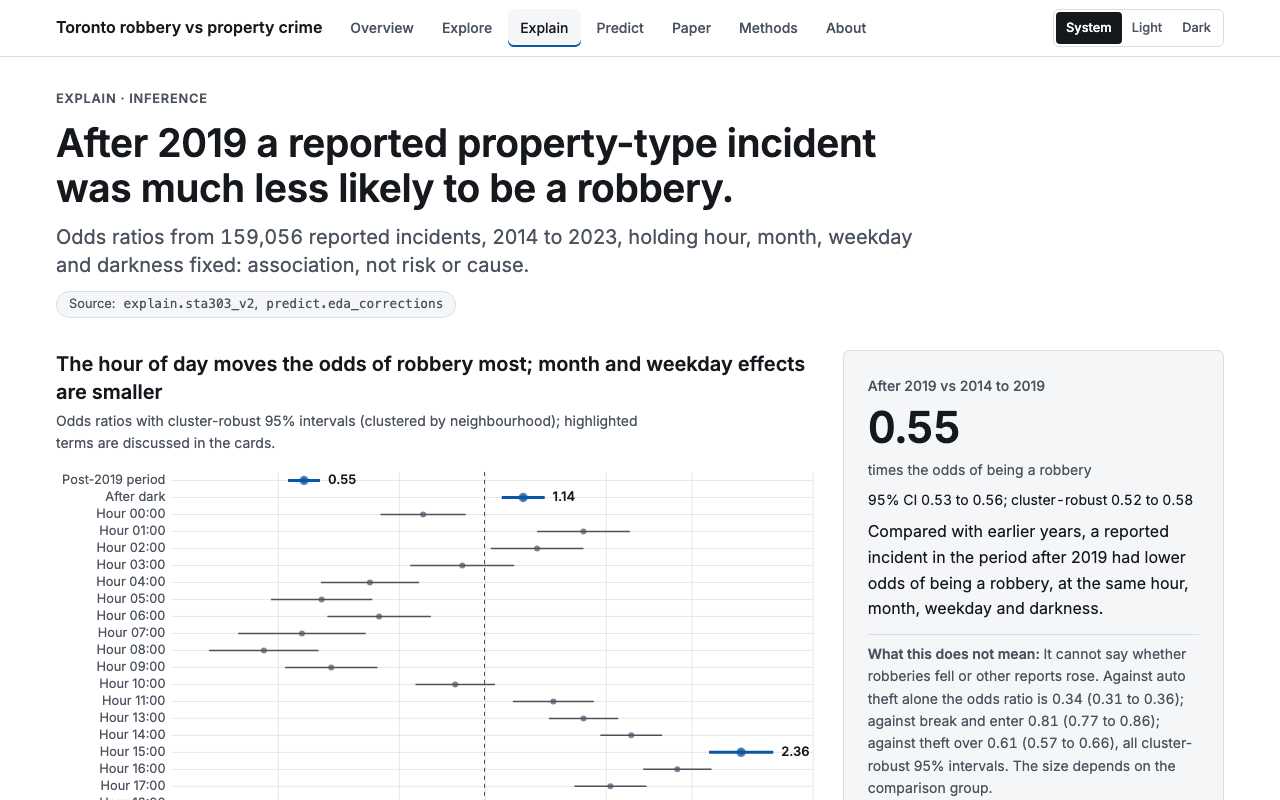
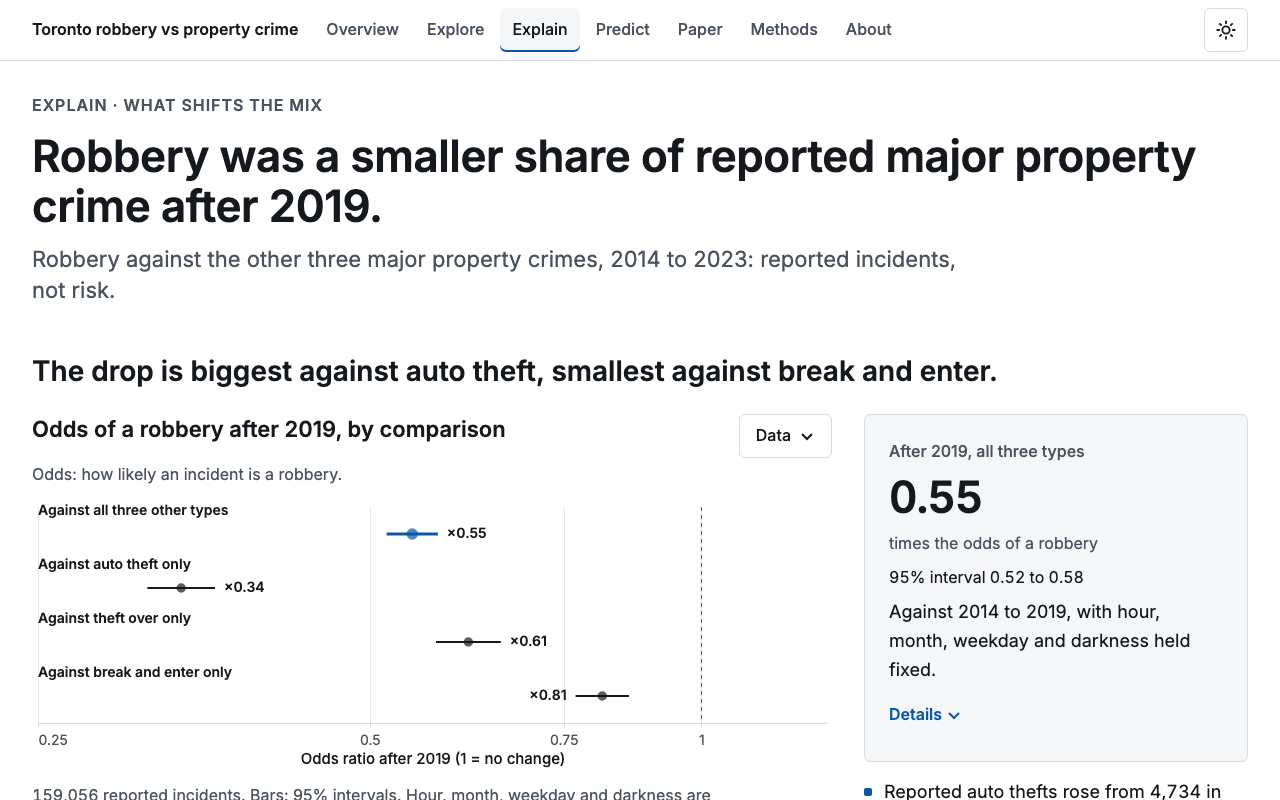
P10: charts embed near the viewport (Lighthouse mobile Explain 67 to 92), README screenshots and 3D note, DESIGN.md and PROGRESS.md

diff --git a/web/src/components/VegaChart.tsx b/web/src/components/VegaChart.tsx
@@ -39,6 +39,7 @@ export function VegaChart({ spec, svg, label, viewRef, minHeight = 240, onSignal
     handler.current = onSignal?.handler
   })
   const signalName = onSignal?.name
+  const hasSvg = Boolean(svg)
 
   useEffect(() => {
     let cancelled = false
@@ -66,7 +67,24 @@ export function VegaChart({ spec, svg, label, viewRef, minHeight = 240, onSignal
       setLive(true)
     }
     const idle = (window as Window & { requestIdleCallback?: (cb: () => void) => number }).requestIdleCallback
-    const handle = idle ? idle(mount) : window.setTimeout(mount, 50)
+    const start = () => (idle ? idle(mount) : window.setTimeout(mount, 50))
+    // A chart with a prerendered SVG waits until it is near the viewport, so a long page does not
+    // embed every chart up front (that work blocks the main thread on phones).
+    let handle = 0
+    let near: IntersectionObserver | null = null
+    if (hasSvg && typeof IntersectionObserver !== 'undefined') {
+      near = new IntersectionObserver(
+        (entries) => {
+          if (!entries.some((e) => e.isIntersecting)) return
+          near?.disconnect()
+          handle = start()
+        },
+        { rootMargin: '300px' },
+      )
+      near.observe(el)
+    } else {
+      handle = start()
+    }
     const remount = () => {
       view?.finalize()
       view = null
@@ -78,13 +96,14 @@ export function VegaChart({ spec, svg, label, viewRef, minHeight = 240, onSignal
     obs.observe(document.documentElement, { attributes: true, attributeFilter: ['data-theme'] })
     return () => {
       cancelled = true
+      near?.disconnect()
       if (!idle) window.clearTimeout(handle)
       mq.removeEventListener('change', remount)
       obs.disconnect()
       view?.finalize()
       if (viewRef) viewRef.current = null
     }
-  }, [specKey, label, viewRef, signalName])
+  }, [specKey, label, viewRef, signalName, hasSvg])
 
   return (
     <div className={`${s.chart} ${svg?.lightNarrow && svg.darkNarrow ? s.hasNarrow : ''}`} style={{ minHeight }} role="img" aria-label={label}>

diff --git a/PROGRESS.md b/PROGRESS.md
@@ -4,10 +4,10 @@ The source of truth for resuming work. Follow `RESUME.md` §2 to resume and §3 
 
 | Field | Value |
 |---|---|
-| Current phase | P10: results-first redesign (R0 done, then R1 to R4); deploy only after it |
+| Current phase | P10 complete locally (R0 to R4, three review gates); push and deploy wait for the user |
 | In progress | P10 R4 fix round (F1 Explain/Predict, F2 other pages and theme switch) \| started 2026-10-31 \| files: see PLAN.md §5 P10 §8 ownership table \| machine: Kevins-iMac.local |
 | Last sitting | 2026-10-29 (Claude Code on Kevins-iMac.local: P2 to P4 complete, tag parity-pass local) |
-| Next action | P10 R2 then Gate B, then R3 and R4. Spec: PLAN.md §5 P10 (the approved plan, `/Users/kevinyang/.claude/plans/claude-code-you-are-shimmying-locket.md`) |
+| Next action | Ask the user: push to GitHub (CI), then run the `pages` workflow. Spec: PLAN.md §5 P10 (the approved plan, `/Users/kevinyang/.claude/plans/claude-code-you-are-shimmying-locket.md`) |
 | Blockers | Q1 blocks P9. Outside-folder installations beyond the approved R/tectonic setup still require approval. |
 
 ## Machine log
@@ -170,7 +170,9 @@ Add a row whenever work moves to a different machine or app.
 - [x] `simplify` (no unused exports found; done inline) and code review of R2/R3 (7 findings: README link depends on Q1 repo visibility, paper-only data in the predict page JSON, hand-appended DOM host in the Figure body, slot-width bisection edge case and build cost, split bundle budget wording, scene remount on results identity; all left open, none blocking)
 - [x] R4 reviews written: `reviews/{comprehension,design-review,content,honesty-audit}-p10.md`; Gate C green (0 blockers, 9 should-fix); honesty audit 0 blockers, 13 should-fix (Explore, Explain and Predict H1 wording, darkness contradiction, 2020 extract basis); numbers audit 0 unmatched; pytest 122 passed
 - [x] F3 Explore fixes: H1 "Reported robbery, bicycle theft and theft over cluster downtown." with dek "late afternoon into the evening"; claim numbers re-run on the engine (31.6% within 3 km of Union Station; bicycle theft 43.8%, robbery 22.0%, theft over 20.3%; hours 15-21 hold 41.5% vs 29.2%); cluster colour key and visible 'not risk' note; open: the high 0:00 bar is unexplained
-- [ ] F1 Explain/Predict fixes; F2 Overview/Paper/Methods/About + phone theme switch; then re-check failed items only, README screenshots/3D link, DESIGN.md, ask before push
+- [x] F1 Explain/Predict (H1s: robbery a smaller share of reported major property crime after 2019; type of place separates robbery far more than time; comparator figure; darkness, 2020-extract and month/weekday caveats), F2 Overview/Paper/Methods/About + 44 px phone theme button
+- [x] Final verification on the combined tree: lint, typecheck, vitest 45/45, bundle (shared core 180 KB, route chunks 40 KB, plotly line), smoke 7 routes x 3 widths x 2 schemes, audit 0 unmatched, explore fold/explore/v2/census3d checks, pytest 122 passed, `make paper` 6 content pages + references; Lighthouse mobile after charts load only near the viewport: Explain 92, Predict 95, Overview 95, Explore 85 (accessibility 100); README (screenshots, 3D, page rule) and DESIGN.md updated
+- [ ] Open: Explore layout shift CLS 0.23; Overview step-chart 'Guessing' label tight against 'Time only' at 375; KeyPoints stat column alignment; the high 0:00 bar on Explore's hour chart is unexplained; R2/R3 code-review items (README link needs the repo public (Q1), paper-only data in predict page JSON, hand-appended DOM host in Figure body); scratch scripts `web/scripts/_probe*.mjs`, `_r3b-*.mjs`, `_f3-shots.mjs` and empty `web/reviews/` need deletion approval; push and `pages` run need the user
 - [ ] R3 Overview, Paper, Methods, About; paper Discussion sentence; `make paper web`
 - [ ] R4 verification (plan §9), comprehension test, content pass, accessibility, design review, honesty audit, code review, README/DESIGN update; ask before push; user runs `pages`
 

diff --git a/design/DESIGN.md b/design/DESIGN.md
@@ -41,13 +41,13 @@ carries a headline, a visual and 2 to 4 bullets; details sit behind `Disclosure`
 ## Charts
 Vega-Lite 6 with the generated theme. Marks take colour from the named styles `accent`, `accentOutline`,
 `muted` and `ink` in the theme, so one spec serves light and dark. Every chart ships a prerendered SVG
-(both themes, built in the route loader), swaps to the interactive view when the browser is idle, and has a
+(both themes, built in the route loader), swaps to the interactive view once it is near the viewport and the browser is idle, and has a
 "View data table" toggle with the displayed (rounded) values, a CSV download and an SVG download.
 Counts on a background use the magnitude ramp (`ramp.magnitude`, viridis: reversed in light so high counts are
 dark, forward in dark so they are bright; end stops validated in `design/palette-validation.md`).
 
 **3D exception (2026-10-31, user decision).** The neighbourhood scatter on Explain uses
-`plotly.js-gl3d-dist-min`, lazy-loaded in its own chunk on that page only and never in the main bundle, with a
+`plotly.js-gl3d-dist-min` (chunk `plotly-gl3d.min-*`, own budget line in `tools/check_bundle_size.mjs`), lazy-loaded in its own chunk on that page only and never in the main bundle, with a
 prerendered Vega-Lite flat view as first paint, fallback (no WebGL, reduced motion, load failure) and print
 view. Scene colours come from the CSS variables and follow the theme live. No other chart uses Plotly.
 
@@ -71,4 +71,4 @@ the accent colour, `prefers-reduced-motion` honoured. Breakpoints 375 / 768 / 10
 `npm run lint` (ESLint and the numerals lint), `npm test` (Explore parity fixtures, results formatting,
 URL state), `node scripts/smoke.mjs` (every route at three widths in both themes: console errors, one H1,
 no horizontal overflow, zero serious or critical axe issues), `node tools/check_bundle_size.mjs`
-(budgets of PLAN.md section 3.3), Lighthouse on the gzip-serving local preview.
+(budgets of PLAN.md section 3.3; since P10 the shared core is 180 KB gzip and each route chunk 40 KB), Lighthouse on the gzip-serving local preview.

diff --git a/README.md b/README.md
@@ -7,12 +7,13 @@ question twice, from Toronto Police Service open data for 2014 to 2023:
 
 - **Explain**: a binomial model of the odds that a reported incident is a robbery rather than an auto theft, break and
   enter or theft over, by hour, month, weekday, solar darkness and a post-2019 period, with neighbourhood-cluster-robust
-  intervals.
+  intervals, and a rotatable three-dimensional view of neighbourhood robbery counts against income and job ratio
+  (loaded on demand, with a flat fallback).
 - **Predict**: a five-rung ladder of models (time only, plus premises and place, plus census, random forest, XGBoost),
   evaluated on held-out neighbourhoods and on a held-out later period, with bootstrap intervals for every score and
   every rung-to-rung difference.
 - **Explore**: a map and charts of reported incidents with filters, computed in the browser.
-- **Paper**: a six-page write-up, built from the same result files.
+- **Paper**: a six-page write-up plus a references page, built from the same result files.
 
 The quantity is P(robbery | reported incident). It is **not** the risk of being robbed at a place or time, and nothing
 here is causal. The headline result: many time terms are statistically clear, yet time alone predicts little; premises and
@@ -49,7 +50,7 @@ make env        # Python venv, node dependencies, Playwright Chromium (make pyth
 make data       # fetch the pinned input files and verify their checksums
 make parity     # Python ports against the committed R outputs
 make analysis   # result files (about 70 minutes, mostly the ablation ladder)
-make paper      # numbers, tables, figures and the PDF (at most 7 pages)
+make paper      # numbers, tables, figures and the PDF (at most 7 content pages; references on their own page)
 make web        # build the static site in web/site
 make audit      # honesty audit of every numeral, bundle budgets, PDF checks
 make check      # unit tests and lint
